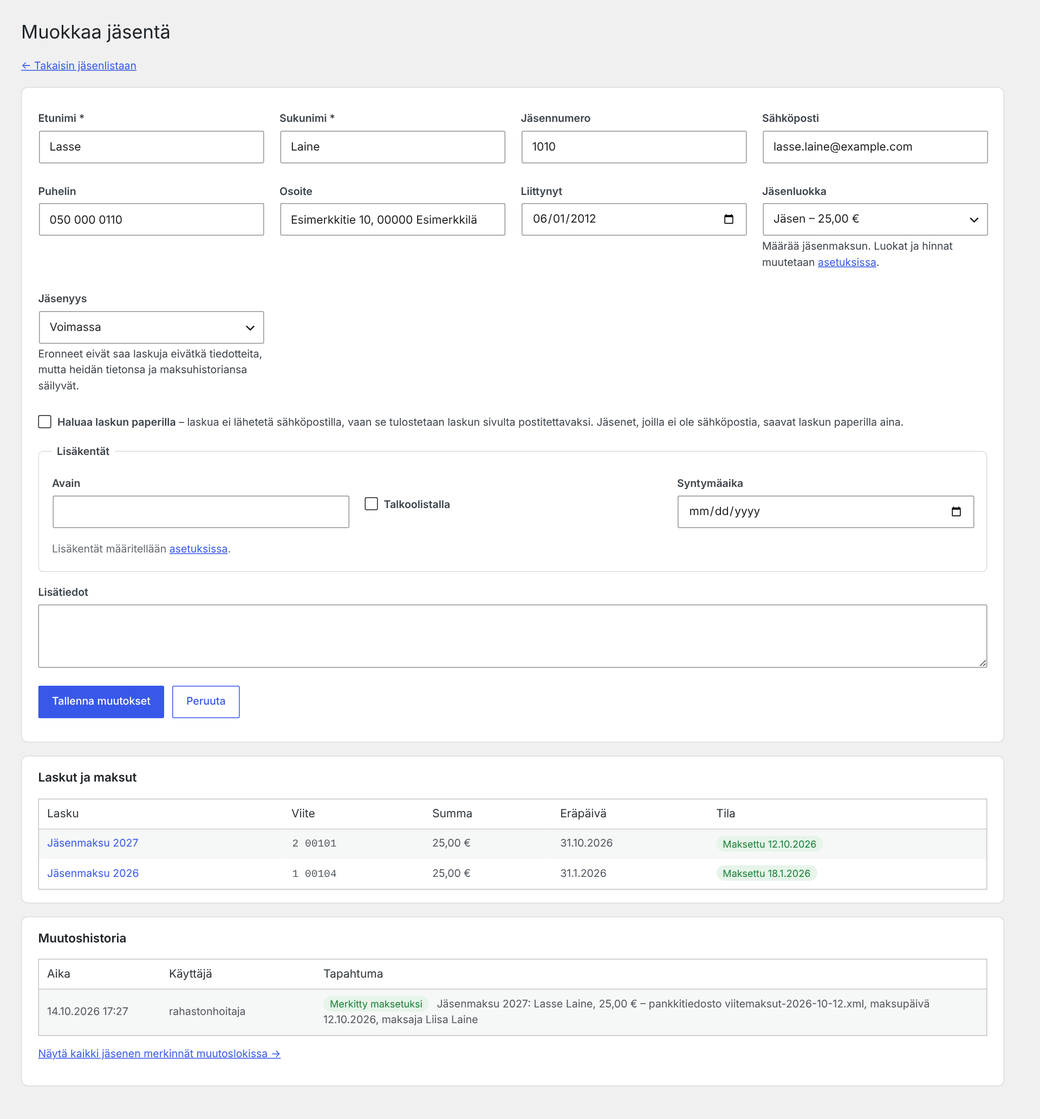
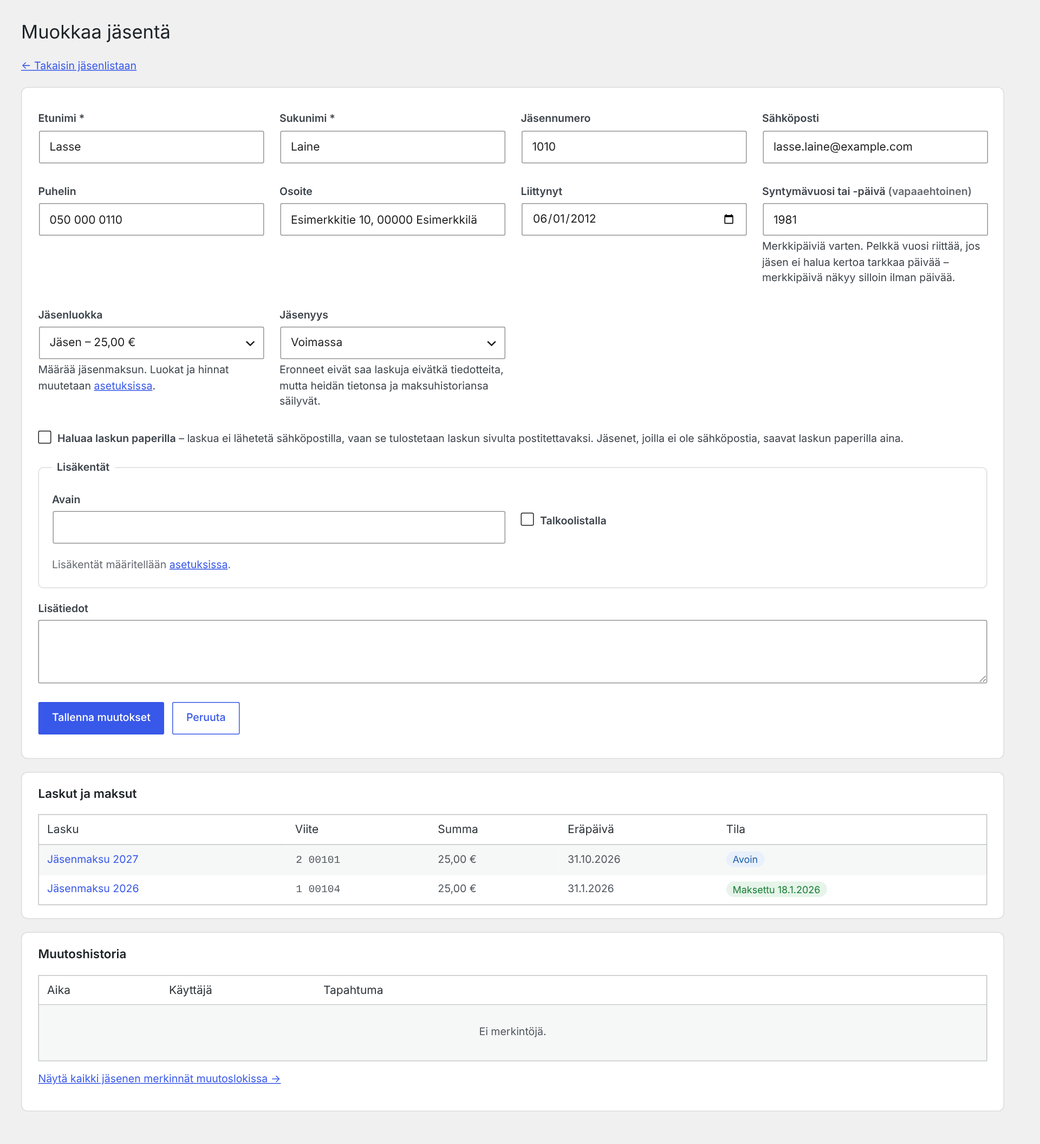
Jäsenrekisteri 4.6.5: vapaaehtoinen syntymävuosi tai -päivä jäsenen tietoihin
Merkkipäiviä varten jäsenellä on oma Syntymävuosi tai -päivä -kenttä
(pelkkä vuosi riittää). Kokeiluversion Syntymäaika-lisäkenttä siirretään
siihen automaattisesti (tietokantaversio 10).

Claude-Session: https://claude.ai/code/session_01WremRbxGDai2cTBYzcBUSZ

diff --git a/includes/helpers.php b/includes/helpers.php
@@ -123,17 +123,31 @@ function jasrek_laji_badge($laji_id) {
         . esc_html($lajit[$laji_id]['nimi']) . '</span>';
 }
 
-/** Lisäkenttien tyypit. Syntymäaika-kentästä lasketaan merkkipäivät. */
+/** Lisäkenttien tyypit. */
 function jasrek_lisa_tyypit() {
-    return array('teksti' => 'Teksti', 'valinta' => 'Valintaruutu', 'pvm' => 'Päivämäärä', 'syntyma' => 'Syntymäaika (merkkipäivät)');
+    return array('teksti' => 'Teksti', 'valinta' => 'Valintaruutu', 'pvm' => 'Päivämäärä');
 }
 function jasrek_lisa_is_date($kentta) {
-    return in_array($kentta['tyyppi'], array('pvm', 'syntyma'), true);
+    return $kentta['tyyppi'] === 'pvm';
 }
-/** Ensimmäinen Syntymäaika-tyyppinen lisäkenttä (id) tai ''. */
-function jasrek_syntyma_kentta() {
-    foreach (jasrek_lisakentat() as $kid => $k) if ($k['tyyppi'] === 'syntyma') return $kid;
-    return '';
+
+/**
+ * Jäsenen syntymävuosi tai -päivä (vapaaehtoinen). Tallennetaan muodossa VVVV tai VVVV-KK-PP.
+ * Hyväksyy esim. 1976, 12.3.1976 ja 1976-03-12. Virheellinen tai tuleva arvo palauttaa ''.
+ */
+function jasrek_syntynyt_parse($s) {
+    $s = trim(sanitize_text_field((string) $s));
+    if ($s === '') return '';
+    if (preg_match('/^\d{4}$/', $s)) {
+        return ((int) $s >= 1900 && (int) $s <= (int) current_time('Y')) ? $s : '';
+    }
+    $d = jasrek_parse_date_any($s);
+    return ($d && (int) substr($d, 0, 4) >= 1900 && $d <= current_time('Y-m-d')) ? $d : '';
+}
+/** Syntymävuosi sellaisenaan tai syntymäpäivä muodossa p.k.vvvv. */
+function jasrek_syntynyt_teksti($v) {
+    $v = (string) $v;
+    return preg_match('/^\d{4}$/', $v) ? $v : jasrek_date($v);
 }
 /** Asetuksen vuosilista (esim. "50, 60, 70") kokonaislukuina. */
 function jasrek_vuosilista($s) {
@@ -145,8 +159,9 @@ function jasrek_vuosilista($s) {
 }
 
 /**
- * Merkkipäivät annettuna vuonna: täytettävät vuodet (syntymäaika) ja jäsenyysvuodet (liittymispäivä)
+ * Merkkipäivät annettuna vuonna: täytettävät vuodet (syntymävuosi tai -päivä) ja jäsenyysvuodet (liittymispäivä)
  * asetuksissa valituilla tasavuosilla. Palauttaa listan array(pvm, tyyppi 'ika'|'jasenyys', vuodet, jäsen), päivän mukaan.
+ * Jos jäsenestä tiedetään vain syntymävuosi, pvm on '' ja merkkipäivä on listan lopussa.
  */
 function jasrek_merkki_on() {
     return jasrek_settings()['merkki_kaytossa'] === '1';
@@ -158,7 +173,6 @@ function jasrek_merkkipaivat($year) {
     $s = jasrek_settings();
     $iat = jasrek_vuosilista($s['merkki_ika']);
     $jat = jasrek_vuosilista($s['merkki_jasen']);
-    $sk = jasrek_syntyma_kentta();
     $out = array();
     $paiva = function ($ymd) use ($year) {
         $md = substr($ymd, 5, 5);
@@ -166,28 +180,30 @@ function jasrek_merkkipaivat($year) {
         return $year . '-' . $md;
     };
     foreach ($wpdb->get_results("SELECT * FROM {$wpdb->jasrek_jasenet} WHERE tila = 'aktiivinen'") as $m) {
-        if ($sk !== '' && $iat) {
-            $lisa = jasrek_member_lisa($m);
-            $syn = isset($lisa[$sk]) ? (string) $lisa[$sk] : '';
-            if (preg_match('/^\d{4}-\d{2}-\d{2}$/', $syn)) {
-                $ika = $year - (int) substr($syn, 0, 4);
-                if (in_array($ika, $iat, true)) $out[] = array('pvm' => $paiva($syn), 'tyyppi' => 'ika', 'vuodet' => $ika, 'm' => $m);
-            }
+        $syn = isset($m->syntynyt) ? (string) $m->syntynyt : '';
+        if ($iat && preg_match('/^\d{4}(-\d{2}-\d{2})?$/', $syn)) {
+            $ika = $year - (int) substr($syn, 0, 4);
+            if (in_array($ika, $iat, true)) $out[] = array('pvm' => strlen($syn) === 10 ? $paiva($syn) : '', 'tyyppi' => 'ika', 'vuodet' => $ika, 'm' => $m);
         }
         if ($jat && $m->liittynyt && $m->liittynyt !== '0000-00-00') {
             $v = $year - (int) substr($m->liittynyt, 0, 4);
             if (in_array($v, $jat, true)) $out[] = array('pvm' => $paiva($m->liittynyt), 'tyyppi' => 'jasenyys', 'vuodet' => $v, 'm' => $m);
         }
     }
-    usort($out, function ($a, $b) { return strcmp($a['pvm'] . $a['m']->sukunimi, $b['pvm'] . $b['m']->sukunimi); });
+    $avain = function ($mp) use ($year) { return ($mp['pvm'] !== '' ? $mp['pvm'] : $year . '-99') . $mp['m']->sukunimi . ' ' . $mp['m']->etunimi; };
+    usort($out, function ($a, $b) use ($avain) { return strcmp($avain($a), $avain($b)); });
     return $out;
+}
+/** Merkkipäivän päivä näytettäväksi; pelkästä syntymävuodesta "vuoden aikana". */
+function jasrek_merkkipaiva_pvm($mp) {
+    return $mp['pvm'] !== '' ? jasrek_date($mp['pvm']) : 'vuoden aikana';
 }
 function jasrek_merkkipaiva_teksti($mp) {
     return $mp['tyyppi'] === 'ika' ? $mp['vuodet'] . ' vuotta' : $mp['vuodet'] . ' vuotta jäsenenä';
 }
 
 /**
- * Omat lisäkentät: array(id => array('nimi' => ..., 'tyyppi' => 'teksti'|'valinta'|'pvm'|'syntyma', 'lista' => '1'|'0')).
+ * Omat lisäkentät: array(id => array('nimi' => ..., 'tyyppi' => 'teksti'|'valinta'|'pvm', 'lista' => '1'|'0')).
  * Päivämäärät tallennetaan muodossa VVVV-KK-PP.
  * Arvot tallennetaan jäsenelle JSON-muodossa (jasenet.lisakentat).
  */

diff --git a/includes/settings.php b/includes/settings.php
@@ -197,7 +197,7 @@ function jasrek_page_settings() {
                 <p class="description">Yhdistyksen omat tiedot jäsenille, esim. <em>Avain</em> (kerhotalon avaimen numero), <em>Lehti paperilla</em> tai <em>Talkoovastaava</em>.
                     <strong>Teksti</strong>-kenttään voi kirjoittaa arvon (esim. avaimen numero 8.59 – tyhjä tarkoittaa, ettei avainta ole).
                     <strong>Valintaruutu</strong> on pelkkä kyllä/ei-ruksi. <strong>Päivämäärä</strong> tallentaa päivän (esim. avaimen luovutus).
-                    <strong>Syntymäaika</strong> on päivämäärä, josta vuosiraportti ja jäsenlista kertovat merkkipäivät (ks. Merkkipäivät alla). Kentät näkyvät jäsenen lomakkeella, CSV-viennissä ja -tuonnissa, ja halutessa omana sarakkeenaan jäsenlistassa.
+                    Kentät näkyvät jäsenen lomakkeella, CSV-viennissä ja -tuonnissa, ja halutessa omana sarakkeenaan jäsenlistassa.
                     Jäsenlistan haku löytää kentän nimellä (esim. ”avain”) kaikki, joilla kenttä on täytetty.</p>
                 <table class="widefat jasrek-lajit" id="jasrek-kentat">
                     <thead><tr><th>Kentän nimi</th><th style="width:220px">Tyyppi</th><th style="width:140px">Jäsenlistassa</th><th style="width:50px"></th></tr></thead>
@@ -226,13 +226,12 @@ function jasrek_page_settings() {
 
             <div class="jasrek-panel" id="jasrek-merkkipaivat">
                 <h2>Merkkipäivät</h2>
-                <p class="description">Vuosiraportti ja jäsenlista kertovat, ketkä täyttävät valittuja tasavuosia tai ovat olleet jäsenenä valitut vuodet. Syntymäpäivät edellyttävät lisäkenttää, jonka tyyppi on <em>Syntymäaika</em>. Jäsenyysvuodet lasketaan liittymispäivästä. Tyhjä kenttä = sitä merkkipäivää ei näytetä.</p>
+                <p class="description">Vuosiraportti ja jäsenlista kertovat, ketkä täyttävät valittuja tasavuosia tai ovat olleet jäsenenä valitut vuodet. Täytettävät vuodet lasketaan jäsenen tiedoissa olevasta <em>syntymävuodesta tai -päivästä</em>. Kenttä on vapaaehtoinen, ja se näkyy jäsenen lomakkeella vain, kun merkkipäivät ovat käytössä. Jos jäsenestä on merkitty vain syntymävuosi, merkkipäivä näkyy vuosiraportissa ilman päivää. Jäsenyysvuodet lasketaan liittymispäivästä. Tyhjä kenttä = sitä merkkipäivää ei näytetä.</p>
                 <p><label class="jasrek-radio"><input type="checkbox" name="merkki_kaytossa" value="1" <?php checked($s['merkki_kaytossa'], '1'); ?>> Merkkipäivät käytössä</label>
-                   <span class="description">Pois päältä merkkipäiviä ei näytetä jäsenlistassa, vuosiraportissa eikä Excel-viennissä. Asetetut vuodet säilyvät.</span></p>
+                   <span class="description">Pois päältä merkkipäiviä ei näytetä jäsenlistassa, vuosiraportissa eikä Excel-viennissä, eikä jäsenen lomakkeella kysytä syntymävuotta. Asetetut vuodet ja tallennetut syntymävuodet säilyvät.</span></p>
                 <div class="jasrek-grid">
                     <p><label for="jasrek-merkki-ika">Täytettävät vuodet</label>
-                       <input type="text" id="jasrek-merkki-ika" name="merkki_ika" value="<?php echo esc_attr($s['merkki_ika']); ?>" placeholder="50, 60, 70, 80, 90">
-                       <span class="description"><?php echo jasrek_syntyma_kentta() !== '' ? 'Syntymäaika luetaan lisäkentästä ”' . esc_html(jasrek_lisakentat()[jasrek_syntyma_kentta()]['nimi']) . '”.' : 'Lisää ensin lisäkenttä, jonka tyyppi on Syntymäaika.'; ?></span></p>
+                       <input type="text" id="jasrek-merkki-ika" name="merkki_ika" value="<?php echo esc_attr($s['merkki_ika']); ?>" placeholder="50, 60, 70, 80, 90"></p>
                     <p><label for="jasrek-merkki-jasen">Jäsenyysvuodet</label>
                        <input type="text" id="jasrek-merkki-jasen" name="merkki_jasen" value="<?php echo esc_attr($s['merkki_jasen']); ?>" placeholder="10, 20, 25, 30, 40, 50"></p>
                 </div>

diff --git a/includes/import-members.php b/includes/import-members.php
@@ -21,6 +21,7 @@ function jasrek_import_fields() {
         'puhelin'         => 'Puhelin',
         'email'           => 'Sähköposti',
         'liittynyt'       => 'Liittynyt',
+        'syntynyt'        => 'Syntymävuosi tai -päivä',
         'jasenlaji'       => 'Jäsenluokka',
         'tila'            => 'Jäsenyys (voimassa / eronnut)',
         'eronnut_pvm'     => 'Eroamispäivä',
@@ -47,6 +48,7 @@ function jasrek_guess_field($header) {
         'puhelin' => 'puhelin', 'puh' => 'puhelin', 'puhelinnumero' => 'puhelin', 'matkapuhelin' => 'puhelin', 'gsm' => 'puhelin', 'phone' => 'puhelin',
         'sahkoposti' => 'email', 'email' => 'email', 'sposti' => 'email', 'emailosoite' => 'email', 'sahkopostiosoite' => 'email',
         'liittynyt' => 'liittynyt', 'liittymispaiva' => 'liittynyt', 'liittymisvuosi' => 'liittynyt', 'jasenalkaen' => 'liittynyt',
+        'syntynyt' => 'syntynyt', 'syntymaaika' => 'syntynyt', 'syntymapaiva' => 'syntynyt', 'syntymavuosi' => 'syntynyt', 'syntymavuositaipaiva' => 'syntynyt', 'syntynytvuonna' => 'syntynyt', 'birthdate' => 'syntynyt',
         'jasenlaji' => 'jasenlaji', 'laji' => 'jasenlaji', 'jasentyyppi' => 'jasenlaji', 'jasenluokka' => 'jasenlaji', 'luokka' => 'jasenlaji',
         'jasenyys' => 'tila', 'tila' => 'tila', 'status' => 'tila',
         'lisatiedot' => 'lisatiedot', 'huom' => 'lisatiedot', 'huomautukset' => 'lisatiedot', 'muistiinpanot' => 'lisatiedot',
@@ -104,13 +106,13 @@ function jasrek_import_tila($s, $oletus) {
 add_action('admin_post_jasrek_members_template', function () {
     jasrek_check('jasrek_members_template');
     $kentat = array_values(array_map(function ($k) { return $k['nimi']; }, jasrek_lisakentat()));
-    $head = array_merge(array('Etunimi', 'Sukunimi', jasrek_tunnus_nimi(), 'Osoite', 'Puhelin', 'Sähköposti', 'Liittynyt', 'Jäsenluokka', 'Jäsenyys', 'Eronnut', 'Paperilasku', 'Lisätiedot'), $kentat);
+    $head = array_merge(array('Etunimi', 'Sukunimi', jasrek_tunnus_nimi(), 'Osoite', 'Puhelin', 'Sähköposti', 'Liittynyt', 'Syntynyt', 'Jäsenluokka', 'Jäsenyys', 'Eronnut', 'Paperilasku', 'Lisätiedot'), $kentat);
     $tyhjat = array_fill(0, count($kentat), '');
     $nimet = array_values(array_map(function ($l) { return $l['nimi']; }, jasrek_jasenlajit()));
     jasrek_csv_output('jasenrekisteri-malli.csv', $head, array(
-        array_merge(array('Matti', 'Meikäläinen', '', 'Esimerkkitie 1, 00100 Helsinki', '040 123 4567', 'matti@example.com', '1.1.2020', isset($nimet[0]) ? $nimet[0] : 'Jäsen', 'Voimassa', '', '', ''), $tyhjat),
-        array_merge(array('Maija', 'Mallikas', '', 'Mallitie 2, 00200 Helsinki', '', '', '2015', isset($nimet[1]) ? $nimet[1] : 'Kunniajäsen', 'Voimassa', '', 'Kyllä', ''), $tyhjat),
-        array_merge(array('Erkki', 'Esimerkki', '', '', '', '', '2001', '', 'Eronnut', '31.12.2025', '', ''), $tyhjat),
+        array_merge(array('Matti', 'Meikäläinen', '', 'Esimerkkitie 1, 00100 Helsinki', '040 123 4567', 'matti@example.com', '1.1.2020', '12.3.1976', isset($nimet[0]) ? $nimet[0] : 'Jäsen', 'Voimassa', '', '', ''), $tyhjat),
+        array_merge(array('Maija', 'Mallikas', '', 'Mallitie 2, 00200 Helsinki', '', '', '2015', '1950', isset($nimet[1]) ? $nimet[1] : 'Kunniajäsen', 'Voimassa', '', 'Kyllä', ''), $tyhjat),
+        array_merge(array('Erkki', 'Esimerkki', '', '', '', '', '2001', '', '', 'Eronnut', '31.12.2025', '', ''), $tyhjat),
     ));
 });
 
@@ -195,6 +197,7 @@ function jasrek_handle_members_import() {
             'puhelin'    => sanitize_text_field(jasrek_normalize_phone($g('puhelin'))),
             'email'      => sanitize_email($g('email')),
             'liittynyt'  => $liitt,
+            'syntynyt'   => jasrek_syntynyt_parse($g('syntynyt')) !== '' ? jasrek_syntynyt_parse($g('syntynyt')) : null,
             'tila'       => $tila,
             'jasenlaji'  => $laji,
             'lisatiedot' => sanitize_textarea_field($g('lisatiedot')),

diff --git a/includes/members.php b/includes/members.php
@@ -40,6 +40,11 @@ function jasrek_handle_save_member() {
         if ($val !== '') $lisa[$kid] = $val;
     }
     $data['lisakentat'] = $lisa ? wp_json_encode($lisa) : null;
+    // Syntymävuosi tai -päivä kysytään vain, kun merkkipäivät ovat käytössä; muuten tallennettu arvo säilyy.
+    if (jasrek_merkki_on()) {
+        $syn = jasrek_syntynyt_parse(jasrek_post('syntynyt'));
+        $data['syntynyt'] = $syn !== '' ? $syn : null;
+    }
 
     $old = $id ? $wpdb->get_row($wpdb->prepare("SELECT * FROM {$wpdb->jasrek_jasenet} WHERE id = %d", $id)) : null;
     if ($id && !$old) jasrek_redirect('jasenrekisteri');
@@ -160,7 +165,7 @@ function jasrek_handle_export_members() {
     $kentat = jasrek_lisakentat();
     $out = array();
     foreach ($rows as $m) {
-        $row = array($m->id, $m->etunimi, $m->sukunimi, $m->tunnus, $m->osoite, $m->puhelin, $m->email, jasrek_date($m->liittynyt),
+        $row = array($m->id, $m->etunimi, $m->sukunimi, $m->tunnus, $m->osoite, $m->puhelin, $m->email, jasrek_date($m->liittynyt), jasrek_syntynyt_teksti($m->syntynyt),
             jasrek_laji_nimi($m->jasenlaji), jasrek_tila_nimi($m->tila), jasrek_date($m->eronnut_pvm),
             $m->paperilasku ? 'Kyllä' : '', $m->lisatiedot);
         $lisa = jasrek_member_lisa($m);
@@ -169,7 +174,7 @@ function jasrek_handle_export_members() {
     }
     jasrek_log('vienti', 0, 'vienti', 'Jäsenrekisteri CSV-tiedostoon (' . count($rows) . ' jäsentä)');
     jasrek_csv_output('jasenrekisteri-' . current_time('Y-m-d') . '.csv',
-        array_merge(array('ID', 'Etunimi', 'Sukunimi', jasrek_tunnus_nimi(), 'Osoite', 'Puhelin', 'Sähköposti', 'Liittynyt', 'Jäsenluokka', 'Jäsenyys', 'Eronnut', 'Paperilasku', 'Lisätiedot'),
+        array_merge(array('ID', 'Etunimi', 'Sukunimi', jasrek_tunnus_nimi(), 'Osoite', 'Puhelin', 'Sähköposti', 'Liittynyt', 'Syntynyt', 'Jäsenluokka', 'Jäsenyys', 'Eronnut', 'Paperilasku', 'Lisätiedot'),
             array_values(array_map(function ($k) { return $k['nimi']; }, $kentat))), $out);
 }
 
@@ -224,6 +229,12 @@ function jasrek_member_form($id) {
                <input type="text" id="jasrek-osoite" name="osoite" value="<?php echo esc_attr($v('osoite')); ?>"></p>
             <p><label for="jasrek-liittynyt">Liittynyt</label>
                <input type="date" id="jasrek-liittynyt" name="liittynyt" value="<?php echo esc_attr($v('liittynyt')); ?>"></p>
+            <?php if (jasrek_merkki_on()): ?>
+            <p><label for="jasrek-syntynyt">Syntymävuosi tai -päivä <span class="jasrek-muted">(vapaaehtoinen)</span></label>
+               <input type="text" id="jasrek-syntynyt" name="syntynyt" value="<?php echo esc_attr(jasrek_syntynyt_teksti($v('syntynyt'))); ?>" placeholder="esim. 1976 tai 12.3.1976" inputmode="numeric"
+                      pattern="\s*(\d{4}|\d{1,2}\.\d{1,2}\.\d{4}|\d{4}-\d{2}-\d{2})\s*" title="Vuosi (esim. 1976) tai päivämäärä (esim. 12.3.1976)">
+               <span class="description">Merkkipäiviä varten. Pelkkä vuosi riittää, jos jäsen ei halua kertoa tarkkaa päivää – merkkipäivä näkyy silloin ilman päivää.</span></p>
+            <?php endif; ?>
             <?php if (jasrek_jasenlajit()):
                 $cur_laji = $v('jasenlaji');
                 // Uudelle jäsenelle esivalitaan välilehdellä valittu luokka tai ensimmäinen maksullinen luokka

diff --git a/includes/report.php b/includes/report.php
@@ -139,7 +139,7 @@ function jasrek_handle_report_xlsx() {
         array(JASREK_Xlsx::text('Yhteensä', JASREK_Xlsx::S_BOLD), $sumf('B'), $sumf('C', true), $sumf('D', true), $sumf('E', true)));
 
     $rows = array();
-    foreach (jasrek_merkkipaivat($year) as $mp) $rows[] = array(JASREK_Xlsx::date($mp['pvm']), $T($mp['m']->etunimi . ' ' . $mp['m']->sukunimi), $T(jasrek_merkkipaiva_teksti($mp)), $T(jasrek_laji_nimi((string) $mp['m']->jasenlaji)));
+    foreach (jasrek_merkkipaivat($year) as $mp) $rows[] = array($mp['pvm'] !== '' ? JASREK_Xlsx::date($mp['pvm']) : $T('vuoden aikana'), $T($mp['m']->etunimi . ' ' . $mp['m']->sukunimi), $T(jasrek_merkkipaiva_teksti($mp)), $T(jasrek_laji_nimi((string) $mp['m']->jasenlaji)));
     if ($rows) $x->add_sheet('Merkkipäivät ' . $year, array('Päivä', 'Jäsen', 'Merkkipäivä', 'Jäsenluokka'), $rows, array(12, 28, 22, 18));
 
     $bin = $x->build();
@@ -269,13 +269,13 @@ function jasrek_page_report() {
         <div class="jasrek-panel" id="merkkipaivat">
             <h2>Merkkipäivät <?php echo (int) $year; ?></h2>
             <?php if (!$mps): ?>
-                <p class="jasrek-muted">Ei merkkipäiviä vuonna <?php echo (int) $year; ?>.<?php echo jasrek_syntyma_kentta() === '' ? ' Syntymäpäivät näkyvät, kun asetuksiin lisätään lisäkenttä, jonka tyyppi on Syntymäaika.' : ''; ?></p>
+                <p class="jasrek-muted">Ei merkkipäiviä vuonna <?php echo (int) $year; ?>.</p>
             <?php else: ?>
             <table class="widefat striped jasrek-table">
                 <thead><tr><th>Päivä</th><th>Jäsen</th><th>Merkkipäivä</th><th>Jäsenluokka</th></tr></thead>
                 <tbody>
                 <?php foreach ($mps as $mp): ?>
-                    <tr><td><?php echo esc_html(jasrek_date($mp['pvm'])); ?></td>
+                    <tr><td><?php echo esc_html(jasrek_merkkipaiva_pvm($mp)); ?></td>
                         <td><?php echo esc_html($mp['m']->etunimi . ' ' . $mp['m']->sukunimi); ?><?php if (jasrek_tunnus_on() && $mp['m']->tunnus): ?> <span class="jasrek-call"><?php echo esc_html($mp['m']->tunnus); ?></span><?php endif; ?></td>
                         <td><strong><?php echo esc_html(jasrek_merkkipaiva_teksti($mp)); ?></strong></td>
                         <td><?php echo esc_html(jasrek_laji_nimi((string) $mp['m']->jasenlaji)); ?></td></tr>
@@ -283,7 +283,7 @@ function jasrek_page_report() {
                 </tbody>
             </table>
             <?php endif; ?>
-            <p class="description">Voimassa olevat jäsenet. Vuodet valitaan <a href="<?php echo esc_url(admin_url('admin.php?page=jasrek-asetukset#jasrek-merkkipaivat')); ?>">asetuksissa</a>.</p>
+            <p class="description">Voimassa olevat jäsenet. Syntymävuosi tai -päivä merkitään jäsenen tietoihin (vapaaehtoinen). Vuodet valitaan <a href="<?php echo esc_url(admin_url('admin.php?page=jasrek-asetukset#jasrek-merkkipaivat')); ?>">asetuksissa</a>.</p>
         </div>
         <?php endif; ?>
     </div>

diff --git a/includes/install.php b/includes/install.php
@@ -25,6 +25,7 @@ function jasrek_install() {
         puhelin varchar(20),
         email varchar(100),
         liittynyt date DEFAULT NULL,
+        syntynyt varchar(10) DEFAULT NULL,
         tila varchar(20) NOT NULL DEFAULT 'aktiivinen',
         jasenlaji varchar(30) NOT NULL DEFAULT '',
         lisatiedot text,
@@ -168,5 +169,27 @@ function jasrek_migrate($old) {
         // Laskuriveille talteen jäsenluokka laskutushetkellä (vuosiraporttia varten); vanhoille riveille nykyinen luokka.
         $rt = jasrek_t('rivit'); $jt = jasrek_t('jasenet');
         $wpdb->query("UPDATE {$wpdb->jasrek_rivit} SET jasenlaji = COALESCE((SELECT m.jasenlaji FROM {$wpdb->jasrek_jasenet} m WHERE m.id = {$wpdb->jasrek_rivit}.jasen_id), '') WHERE jasenlaji = ''");
+    }
+    if ($old < 10) {
+        // Kokeiluversion "Syntymäaika"-lisäkenttä siirtyy jäsenen omaan Syntynyt-kenttään.
+        $s = get_option('jasrek_settings', array());
+        $kentat = is_array($s) && isset($s['lisakentat']) && is_array($s['lisakentat']) ? $s['lisakentat'] : array();
+        $siirretyt = array();
+        foreach ($kentat as $kid => $k) {
+            if (!isset($k['tyyppi']) || $k['tyyppi'] !== 'syntyma') continue;
+            foreach ($wpdb->get_results("SELECT id, lisakentat FROM {$wpdb->jasrek_jasenet} WHERE syntynyt IS NULL AND lisakentat IS NOT NULL") as $m) {
+                $lisa = json_decode((string) $m->lisakentat, true);
+                if (is_array($lisa) && isset($lisa[$kid]) && preg_match('/^\d{4}-\d{2}-\d{2}$/', (string) $lisa[$kid])) {
+                    $wpdb->update($wpdb->jasrek_jasenet, array('syntynyt' => $lisa[$kid]), array('id' => (int) $m->id));
+                }
+            }
+            $siirretyt[] = $k['nimi'];
+            unset($kentat[$kid]);
+        }
+        if ($siirretyt) {
+            $s['lisakentat'] = $kentat;
+            update_option('jasrek_settings', $s);
+            jasrek_log('asetukset', 0, 'asetukset', 'Lisäkenttä ' . implode(', ', $siirretyt) . ' siirretty jäsenen Syntynyt-kenttään');
+        }
     }
 }

diff --git a/includes/log.php b/includes/log.php
@@ -66,6 +66,7 @@ function jasrek_member_snapshot($m) {
         'Puhelin'     => (string) $m->puhelin,
         'Osoite'      => (string) $m->osoite,
         'Liittynyt'   => jasrek_date($m->liittynyt),
+        'Syntynyt'    => isset($m->syntynyt) ? jasrek_syntynyt_teksti($m->syntynyt) : '',
         'Jäsenluokka' => jasrek_laji_nimi((string) $m->jasenlaji) !== '' ? jasrek_laji_nimi((string) $m->jasenlaji) : (string) $m->jasenlaji,
         'Jäsenyys'    => jasrek_tila_nimi($m->tila),
         'Eronnut'     => isset($m->eronnut_pvm) ? jasrek_date($m->eronnut_pvm) : '',

diff --git a/jasenrekisteri.php b/jasenrekisteri.php
@@ -19,7 +19,7 @@ SPDX-License-Identifier: AGPL-3.0-or-later
 if (!defined('ABSPATH')) exit; // Estetään suora pääsy tiedostoon
 
 define('JASREK_VERSION', '4.6.5');
-define('JASREK_DB_VERSION', '9');
+define('JASREK_DB_VERSION', '10');
 define('JASREK_FILE', __FILE__);
 define('JASREK_DIR', plugin_dir_path(__FILE__));
 define('JASREK_URL', plugin_dir_url(__FILE__));

diff --git a/CHANGELOG.md b/CHANGELOG.md
@@ -9,7 +9,13 @@
 - Monisivuinen luettelo toistaa otsikkorivin joka sivulla. Luettelon avaaminen kirjataan muutoslokiin, koska se sisältää henkilötietoja.
 
 ### Uutta: merkkipäivät
-- Lisäkenttiin tuli kaksi uutta tyyppiä: **Päivämäärä** ja **Syntymäaika (merkkipäivät)**. Jäsenen lomakkeella ne ovat päivämääräkenttiä. CSV-viennissä ne ovat muodossa p.k.vvvv, ja tuonnissa kelpaavat sekä p.k.vvvv että vvvv-kk-pp.
+- Jäsenen tietoihin tuli vapaaehtoinen kenttä **Syntymävuosi tai -päivä** (liittymispäivän viereen). Se näkyy jäsenen lomakkeella vain, kun merkkipäivät ovat käytössä.
+  - Kelpaa pelkkä vuosi (esim. 1976) tai päivämäärä (12.3.1976 tai 1976-03-12). Kaikki eivät halua ikäänsä julki, joten vuosi riittää: merkkipäivä näkyy silloin vuosiraportissa ja Excelissä muodossa *vuoden aikana* ja listan lopussa, mutta ei jäsenlistan 60 päivän kortissa.
+  - Tyhjä kenttä tarkoittaa, ettei syntymävuotta tiedetä. Virheellinen tai tuleva vuosi/päivä ei tallennu, ja selain huomauttaa väärästä muodosta.
+  - Kun merkkipäivät kytketään pois, kenttä piilotetaan, mutta jo tallennetut syntymävuodet säilyvät.
+  - Kenttä on mukana CSV-viennissä (sarake *Syntynyt*), CSV-tuonnissa (tunnistaa otsikot *Syntynyt*, *Syntymävuosi*, *Syntymäaika*, *Syntymäpäivä*), CSV-mallissa ja muutoslokissa.
+  - Tietokanta päivittyy automaattisesti (versio 10: jäsentauluun sarake *syntynyt*).
+- Lisäkenttiin tuli uusi tyyppi **Päivämäärä**. Jäsenen lomakkeella se on päivämääräkenttä. CSV-viennissä se on muodossa p.k.vvvv, ja tuonnissa kelpaavat sekä p.k.vvvv että vvvv-kk-pp.
 - Asetuksissa on uusi kohta **Merkkipäivät**: *Täytettävät vuodet* (oletuksena 50, 60, 70, 75, 80, 85, 90, 95 ja 100) ja *Jäsenyysvuodet* (oletuksena 10, 20, 25, 30, 40, 50 ja 60). Vuodet voi muuttaa vapaasti, ja tyhjä kenttä poistaa ne käytöstä.
 - **Vuosiraportissa** on osio *Merkkipäivät* (päivä, jäsen, merkkipäivä, jäsenluokka), ja se on myös Excel-raportissa omana välilehtenään.
 - **Jäsenlistassa** on kortti, joka näyttää seuraavan 60 päivän merkkipäivät ja ensimmäisen niistä, myös vuodenvaihteen yli. Kortista pääsee vuosiraportin merkkipäiviin.
@@ -19,6 +25,7 @@
 ### Muut muutokset
 - Jäsenyyden ehdot yhtenäistetty: jäseniksi lasketaan kaikkialla vain voimassa olevat jäsenet (aiemmin ”ei eronnut”). Tämä vaikuttaa jäsenmäärien, tiedotteiden, asetusten ja joukkotoimintojen ehtoihin.
 - Lisäosa toimii edelleen vain WordPressin hallintapaneelissa: sivustolle ei tule lomakkeita eikä lyhytkoodeja. Kokeiluversion 4.7.0 liittymislomake jätettiin pois (liittymiseen kannattaa käyttää esim. Contact Form 7:ää).
+- Kokeiluversion 4.7.0 lisäkenttätyyppi *Syntymäaika* poistui. Jos sellainen kenttä oli käytössä, sen arvot siirtyvät päivityksessä automaattisesti jäsenen Syntymävuosi tai -päivä -kenttään ja lisäkenttä poistetaan asetuksista. Siirto kirjataan muutoslokiin.
 - Jos 4.7.0-kokeiluversiolla ehti tulla liittymishakemuksia, ne näkyvät jäsenlistan välilehdellä *Eronneet* merkinnällä *liittymishakemus*. Niitä ei laskuteta eikä lasketa jäseniksi. Hakemuksen voi palauttaa jäseneksi (joukkotoiminto *Palauta jäseneksi* tai jäsenen lomakkeella) tai poistaa.
 
 ## 4.6.4 (2026-10-14)

diff --git a/README.md b/README.md
@@ -23,7 +23,7 @@ Lähetä koko jäsenistölle jäsenmaksulaskut sähköpostilla yhdellä painallu
 - Vapaasti nimettävä lisätunniste, esim. *Jäsennumero*.
 - **Omat lisäkentät**, esim. *Avain* (kerhotalon avaimen numero) tai *Talkoolistalla*. Kenttä voi olla teksti tai valintaruutu, ja sen voi näyttää jäsenlistassa omana sarakkeenaan. Haku kentän nimellä (esim. ”avain”) löytää kaikki, joilla kenttä on täytetty.
 - Eroamispäivä tallentuu, kun jäsen merkitään eronneeksi.
-- **Merkkipäivät:** tasavuosia täyttävät (lisäkenttä *Syntymäaika*) ja jäsenyysvuodet (liittymispäivästä) asetuksissa valituilla vuosilla, esim. 50, 60, 70, 80 ja 90 vuotta tai 10, 25 ja 50 vuotta jäsenenä. Lähestyvät merkkipäivät näkyvät jäsenlistassa. Ominaisuuden voi kytkeä pois asetuksista.
+- **Merkkipäivät:** tasavuosia täyttävät (jäsenen vapaaehtoinen *syntymävuosi tai -päivä*; pelkkä vuosi riittää) ja jäsenyysvuodet (liittymispäivästä) asetuksissa valituilla vuosilla, esim. 50, 60, 70, 80 ja 90 vuotta tai 10, 25 ja 50 vuotta jäsenenä. Lähestyvät merkkipäivät näkyvät jäsenlistassa. Ominaisuuden voi kytkeä pois asetuksista.
 - Tuonti ja vienti CSV-muodossa (Excel-yhteensopiva). Sarakkeet tunnistetaan otsikoista, ja puhelinnumeroiden etunollat säilyvät.
 - Varoitus mahdollisesta tuplakirjauksesta.
 - **Kesken kauden liittyvä jäsen** lisätään jäsenlomakkeesta suoraan jo lähetetylle laskulle. Hän saa oman viitteen ja eräpäivän, ja laskun voi lähettää heti.
